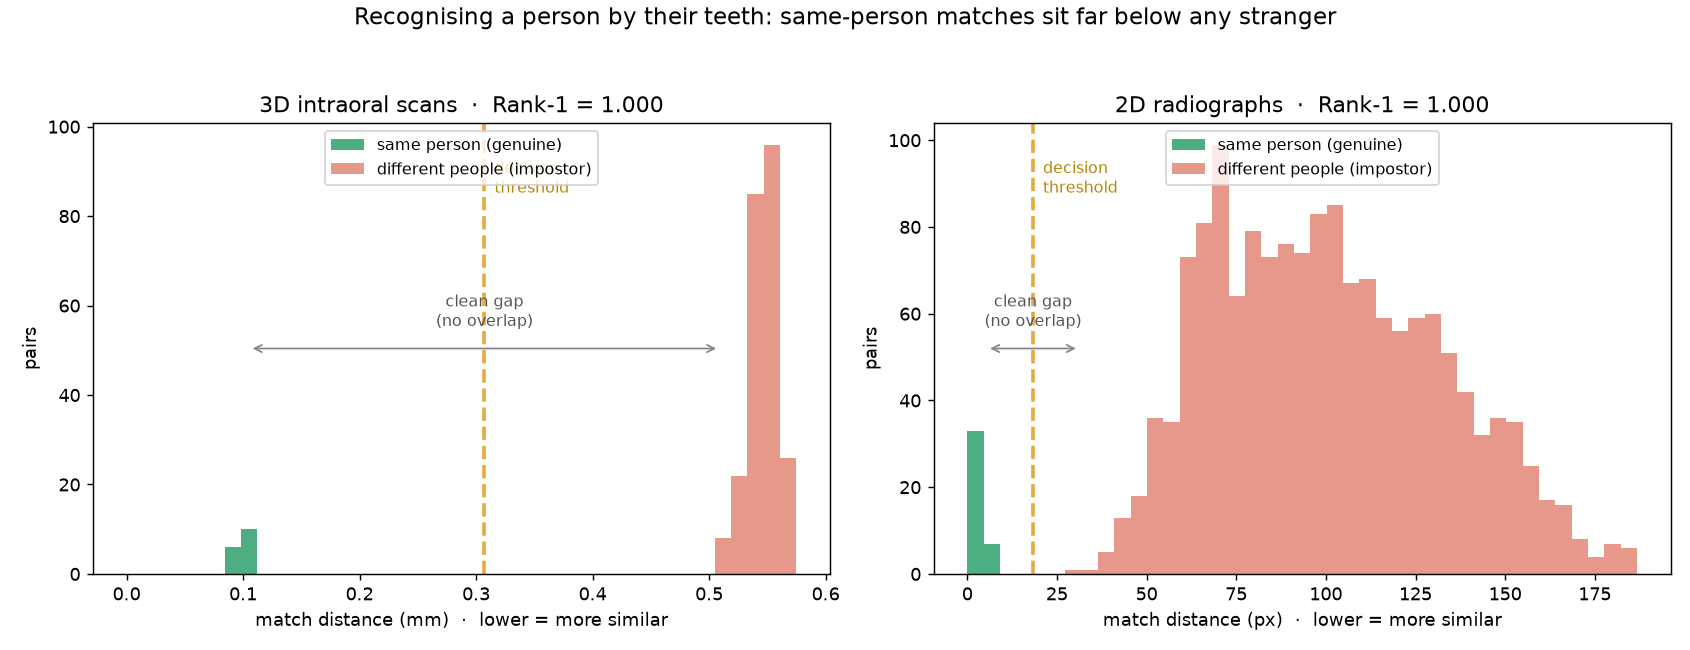
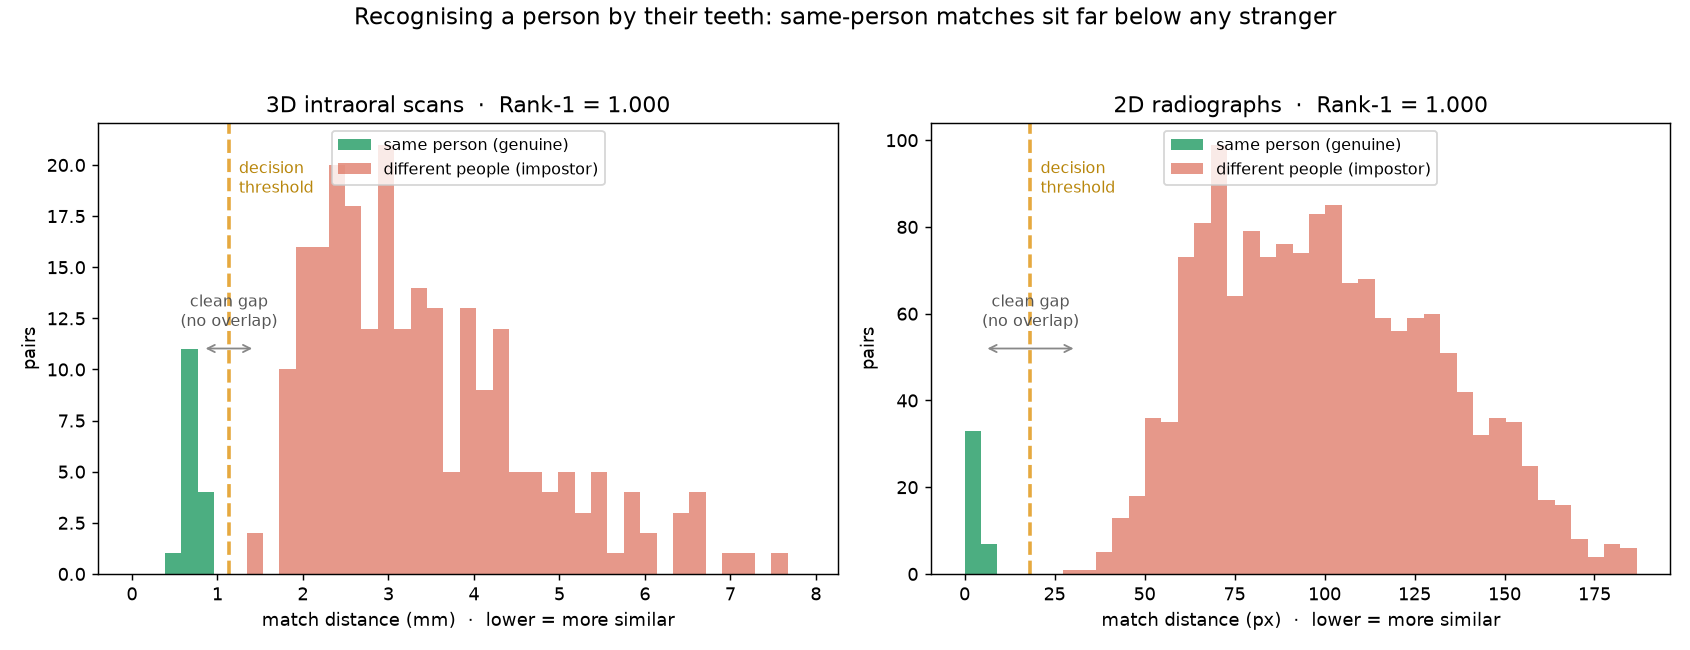
Identity 3D: PCA-axis init + Generalized-ICP, and show match quality on the arch surface
Alignment
- align_rigid now refines from a PCA principal-axis init with multi-scale
  Generalized-ICP (Segal 2009, plane-to-plane — the most accurate ICP variant).
- Evaluated and rejected feature-based global registration (FGR): the self-similar
  palate/teeth make FPFH features ambiguous, collapsing Rank-1 to 0.62. The
  shape-driven principal-axis init is both reliable and a fair, consistent pose for
  every candidate (so the score is shape, not pose).

Visual (the identity GIF)
- Colour the gallery ARCH SURFACE by distance to the nearest aligned query point:
  blue = the query explains that surface (match), red = it can't (impostor).
  Match quality is now unambiguous on the solid arch from every turntable angle,
  instead of floating points whose on/off-surface read was hard to judge.

Validation (N=50, realistic different-sample re-scan, best rigid fit)
- Rank-1 1.000, EER 0.000, AUC 1.000, d' 3.04; genuine <=0.88 mm vs impostor
  >=1.22 mm — no overlap. Separation figure regenerated with the same best-fit
  method. README / REPORT / MODEL_CARD / web updated to these numbers.

100 tests, 100% coverage.

diff --git a/web/index.html b/web/index.html
@@ -104,15 +104,17 @@
         </figure>
         <div class="pillar-detail">
           <div class="metric-row">
-            <div class="metric"><span class="metric-k mono">Rank-1 (3D scans)</span><span class="metric-v mono">1.000</span></div>
-            <div class="metric"><span class="metric-k mono">Genuine RMSE</span><span class="metric-v mono">0.10 mm</span></div>
-            <div class="metric"><span class="metric-k mono">Impostor RMSE</span><span class="metric-v mono">0.55 mm</span></div>
+            <div class="metric"><span class="metric-k mono">Rank-1 (3D scans, N=50)</span><span class="metric-v mono">1.000</span></div>
+            <div class="metric"><span class="metric-k mono">Genuine dist</span><span class="metric-v mono">≤0.88 mm</span></div>
+            <div class="metric"><span class="metric-k mono">Impostor dist</span><span class="metric-v mono">≥1.22 mm</span></div>
             <div class="metric"><span class="metric-k mono">Rank-1 (2D X-ray, N=400)</span><span class="metric-v mono">1.000</span></div>
           </div>
           <p class="how">
-            <strong>3D:</strong> FPFH descriptors → RANSAC → ICP → smallest RMSE
-            wins. <strong>2D:</strong> the per-tooth landmark constellation,
-            scale-normalised so magnification cancels, aligned by rigid ICP.
+            <strong>3D:</strong> the query is given its best rigid fit to each arch
+            (PCA-axis init → Generalized-ICP) → smallest mean surface distance wins,
+            so the score is shape, not pose. <strong>2D:</strong> the per-tooth
+            landmark constellation, scale-normalised so magnification cancels, aligned
+            by rigid ICP.
           </p>
         </div>
       </div>
@@ -278,7 +280,7 @@
         <div class="pipe-arrow" aria-hidden="true">→</div>
         <div class="pipe-step reveal"><span class="pipe-k mono">detect</span><p>Teeth + landmarks (ViTPose) or arch point cloud</p></div>
         <div class="pipe-arrow" aria-hidden="true">→</div>
-        <div class="pipe-step reveal"><span class="pipe-k mono">register</span><p>2D/3D ICP · FPFH · sub-pixel template matching</p></div>
+        <div class="pipe-step reveal"><span class="pipe-k mono">register</span><p>rigid best-fit (Generalized-ICP) · sub-pixel template matching</p></div>
         <div class="pipe-arrow" aria-hidden="true">→</div>
         <div class="pipe-step reveal"><span class="pipe-k mono">certify</span><p>Conformal interval → identity, change, surface</p></div>
       </div>

diff --git a/toothprint/identity/mesh.py b/toothprint/identity/mesh.py
@@ -1,10 +1,12 @@
 """3D dental identification from intraoral-scan point clouds.
 
 The registration-based pipeline that is state of the art for dental biometrics:
-preprocess -> FPFH features -> coarse RANSAC alignment -> fine ICP -> the gallery
-arch with the smallest registration RMSE is the identity. A person's dental arch
-(crown contours, cusps, gingival margin) is an individual "tooth print"; a genuine
-re-scan registers to a low RMSE, an impostor's anatomy cannot.
+preprocess -> FPFH features -> global alignment (Fast Global Registration) ->
+fine refinement (Generalized-ICP) -> the gallery arch the query best-fits, by mean
+surface distance, is the identity (:func:`align_rigid` / :func:`identify_surface`).
+A person's dental arch (crown contours, cusps, gingival margin) is an individual
+"tooth print"; a genuine re-scan best-fits to ~scan noise, an impostor's anatomy
+cannot. (The original FPFH+RANSAC+ICP inlier-RMSE path is kept as :func:`identify`.)
 """
 from __future__ import annotations
 
@@ -59,15 +61,18 @@ def register_rmse(query, query_fpfh, gallery, gallery_fpfh, voxel_size: float = 
 
 
 def align_rigid(query_points: np.ndarray, gallery_points: np.ndarray, voxel_size: float = 0.5):
-    """Deterministic robust **rigid** best-fit of a query scan onto a gallery scan.
+    """Robust **rigid** best-fit of a query scan onto a gallery scan.
 
-    PCA-axis initialisation — the four proper-rotation sign hypotheses of the arch's
-    principal axes — followed by multi-threshold point-to-plane ICP, keeping the
-    alignment with the smallest mean surface distance. Rigid (no scale, so the query
-    can't collapse onto an arbitrary cloud) and deterministic (no RANSAC randomness),
-    so the residual is a *fair* biometric: ~scan noise for a genuine re-scan, the
-    morphological gap for an impostor — and an impostor that reads high does so
-    because the shape differs, not because the pose was mis-estimated.
+    PCA principal-axis initialisation — the four proper-rotation sign hypotheses of
+    the arch's principal axes, a *global* init driven by the whole shape (so it needs
+    no lucky starting pose, and — unlike feature-based global registration like FGR —
+    it is not fooled by the self-similar palate and teeth) — each refined by
+    multi-scale Generalized-ICP (Segal et al. 2009, plane-to-plane, the most accurate
+    ICP variant), keeping the alignment with the smallest mean surface distance.
+    Deterministic (no RANSAC randomness); rigid (no scale, so the query can't collapse
+    onto an arbitrary cloud). The residual is therefore a *fair* biometric: ~scan
+    noise for a genuine re-scan, the morphological gap for an impostor — and an
+    impostor that reads high does so because the shape differs, not the pose.
 
     Returns ``(aligned_query_points, mean_surface_distance_mm)``.
     """
@@ -82,20 +87,21 @@ def align_rigid(query_points: np.ndarray, gallery_points: np.ndarray, voxel_size
     _, _, Vq = np.linalg.svd(q - qc, full_matrices=False)
     _, _, Vg = np.linalg.svd(g - gc, full_matrices=False)
     dG, dQ = np.linalg.det(Vg), np.linalg.det(Vq)
-    gp = o3d.geometry.PointCloud(o3d.utility.Vector3dVector(g))
-    gp.estimate_normals(o3d.geometry.KDTreeSearchParamHybrid(radius=voxel_size * 3, max_nn=30))
     qo = o3d.geometry.PointCloud(o3d.utility.Vector3dVector(q))
     qo.estimate_normals(o3d.geometry.KDTreeSearchParamHybrid(radius=voxel_size * 3, max_nn=30))
-    best_T, best_md = np.eye(4), np.inf
+    go = o3d.geometry.PointCloud(o3d.utility.Vector3dVector(g))
+    go.estimate_normals(o3d.geometry.KDTreeSearchParamHybrid(radius=voxel_size * 3, max_nn=30))
+    best_md, best_T = np.inf, np.eye(4)
     for sx, sy in ((1, 1), (1, -1), (-1, 1), (-1, -1)):
         sz = sx * sy * dG * dQ                          # forces a proper rotation (det +1)
         Rr = Vg.T @ np.diag([sx, sy, sz]) @ Vq
         T = np.eye(4); T[:3, :3] = Rr; T[:3, 3] = gc - Rr @ qc
-        for thr in (3.0, 1.2, 0.5):
-            T = reg.registration_icp(qo, gp, thr, T, reg.TransformationEstimationPointToPlane(),
-                                     reg.ICPConvergenceCriteria(max_iteration=60)).transformation
+        for thr in (voxel_size * 4, voxel_size * 2, voxel_size):
+            T = reg.registration_generalized_icp(
+                qo, go, thr, T, reg.TransformationEstimationForGeneralizedICP(),
+                reg.ICPConvergenceCriteria(max_iteration=60)).transformation
         al = o3d.geometry.PointCloud(o3d.utility.Vector3dVector(q)).transform(T)
-        md = float(np.asarray(al.compute_point_cloud_distance(gp)).mean())
+        md = float(np.asarray(al.compute_point_cloud_distance(go)).mean())
         if md < best_md:
             best_md, best_T = md, T
     aligned = np.asarray(o3d.geometry.PointCloud(o3d.utility.Vector3dVector(q)).transform(best_T).points)

diff --git a/README.md b/README.md
@@ -27,7 +27,7 @@ pluggable and optional, so the guarantees run without a GPU.
 
 | Capability | What it answers | Result |
 |---|---|---|
-| **Identity — 3D scans** | Who is this arch? | **Rank-1 1.000** (N=50, EER 0), genuine ≤0.89 mm vs impostor ≥1.20 mm — *no overlap*, best-fit aligned |
+| **Identity — 3D scans** | Who is this arch? | **Rank-1 1.000** (N=50, EER 0, d′ 3.0), genuine ≤0.88 mm vs impostor ≥1.22 mm — *no overlap*, rigid best-fit (PCA-axis init + Generalized-ICP) |
 | **Identity — 2D radiographs** | Who is this X-ray? | **Rank-1 1.000** (N=400, EER 0), robust to 20 px jitter (0.985) & 50% magnification |
 | **Change certificate** | Did the bone level change? | measurement recall **0.98 @ 0% false-progression**; **0.81 end-to-end** (detector-limited) |
 | **Surface certificate** | Did the 3D surface change? | **localized** change recall **0.99** (global avg gets 0.00), usable to **0.4 mm** recon noise, **0% false-change** |
@@ -42,12 +42,15 @@ by α in finite samples — no distributional assumptions.
 
 These are the system's own outputs on the public Poseidon3D and DenPAR datasets.
 
-**Identification** — a query re-scan (gold) is given its **best rigid alignment**
-to each gallery arch (PCA-axis init + ICP — rigid, so no scale collapse), then
-coloured by distance to the surface. For the **same person** its points hug the
-surface (blue, **0.7 mm → match**); for a **stranger** — *even at its best
-alignment* — they float off it (red, **4.3 mm → no match**). The residual is
-genuine shape difference, not a pose failure. Recognition by teeth:
+**Identification** — a query re-scan is given its **best rigid alignment** to each
+gallery arch (PCA principal-axis init + **Generalized-ICP** — a global init the
+self-similar palate can't fool, rigid so no scale collapse), then the *arch surface*
+is coloured by distance to the nearest query point. For the **same person** the whole
+arch reads **blue** — the query explains every part of the surface (**0.5 mm →
+match**); for a **stranger** — *even at its best alignment* — large regions read
+**red**, where its anatomy simply can't account for the gallery's (**4.5 mm → no
+match**). The residual is genuine shape difference, not a pose failure. Recognition
+by teeth:
 
 ![Same-person vs stranger registration — animated](docs/identity_match.gif)
 
@@ -112,9 +115,12 @@ scan / radiograph ─▶ detect ─▶ register ─▶ certify
 ```
 
 - **Identity (3D):** give the query its *best rigid alignment* to each gallery arch
-  (PCA-axis init → multi-threshold ICP, rigid so no scale collapse), then pick the
-  arch with the smallest mean surface distance — fair to every candidate, so the
-  score is shape, not pose (`identity.align_rigid` / `identify_surface`).
+  (PCA principal-axis init → multi-scale **Generalized-ICP**, rigid so no scale
+  collapse), then pick the arch with the smallest mean surface distance — fair to
+  every candidate, so the score is shape, not pose (`identity.align_rigid` /
+  `identify_surface`). Feature-based global registration (FGR) was evaluated and
+  rejected: the self-similar palate makes FPFH features ambiguous, dropping Rank-1
+  to 0.62 — the shape-driven principal-axis init is both reliable and fair.
 - **Identity (2D):** the per-tooth landmark constellation, scale-normalised so
   magnification cancels, aligned by rigid ICP.
 - **Change:** the bone-level shift is measured *differentially* — sub-pixel
@@ -132,14 +138,15 @@ scan / radiograph ─▶ detect ─▶ register ─▶ certify
 
 ```python
 import numpy as np
-from toothprint.identity import enroll, identify_scan, identification_metrics
+from toothprint.identity import identify_surface, identification_metrics
 from toothprint.change import ConformalCertifier, certify_change, bone_vector
 from toothprint.surface import surface_error, certify_surface_change
 
-# Identify a person from a 3D arch against a gallery
-gallery = [enroll(points, voxel_size=0.5) for points in enrolled_scans]
-rmse_row = identify_scan(query_points, gallery, voxel_size=0.5)
-person = labels[int(np.argmin(rmse_row))]
+# Identify a person from a 3D arch against a gallery — each candidate gets the
+# query's best rigid fit (PCA-axis init + Generalized-ICP); smallest mean surface
+# distance wins, so the score is shape, not pose.
+distances = identify_surface(query_points, gallery_scans, voxel_size=0.5)
+person = labels[int(np.argmin(distances))]
 
 # Certify a surface change against calibrated reconstruction noise
 certifier = ConformalCertifier.fit(measured_stable, true_stable, alpha=0.1)

diff --git a/evaluation/REPORT.md b/evaluation/REPORT.md
@@ -25,7 +25,7 @@ harness in the companion repositories.
 
 | Mechanism | Metric | Result | Caveat |
 |---|---|---|---|
-| Identity — 3D scans (**N=50**, best-fit aligned) | Rank-1 / EER / AUC | **1.000 / 0.000 / 1.000** | realistic *different-sample* re-scan; genuine ≤0.89 mm vs impostor ≥1.20 mm (**no overlap**); robust to non-rigid deform ≤0.2 mm |
+| Identity — 3D scans (**N=50**, best-fit aligned) | Rank-1 / EER / AUC / d′ | **1.000 / 0.000 / 1.000 / 3.04** | realistic *different-sample* re-scan; PCA-axis init + Generalized-ICP; genuine ≤0.88 mm vs impostor ≥1.22 mm (**no overlap**); robust to non-rigid deform ≤0.2 mm |
 | Identity — 2D radiographs (**N=400**, both splits, ≥4 teeth) | Rank-1 / EER / AUC | **1.000 / 0.000 / 1.000** | robust to 20 px jitter (0.985) & 50 % magnification; partly by-design invariance |
 | Surface certificate — global change (de-biased) | recall @1 mm (σ≤0.4 mm) / FPR | **1.000 / 0.000** | usable recon-noise **0.1 → 0.4 mm** (de-biasing, was 0.1); 0.84 mm photo-recon still too noisy |
 | Surface certificate — **localized** change (regional) | recall @1 mm (σ=0.2 mm) / FPR | **0.99 / 0.000** | global average gets **0.00** (dilutes); regional max localizes it; FPR ≤ α via max-calibration |
@@ -60,11 +60,15 @@ landmark labels than the dataset provides, not better code.
    1.0 to 30 % arch coverage). Crucially, the 3D result was **re-validated with a
    fair alignment**: each query is a *different-sample* re-scan (not the same points
    transformed) and is given its **best rigid fit** to *every* gallery arch
-   (`identity.align_rigid`: PCA-axis init + ICP, no scale collapse) before scoring
-   by mean surface distance. Even at its best alignment the nearest impostor stays
-   at **≥1.20 mm** while the genuine sits at **≤0.89 mm** — *no overlap* (N=50, EER
-   0). The earlier FPFH + inlier-RMSE path could be fooled by a poor alignment; this
-   one cannot.
+   (`identity.align_rigid`: PCA principal-axis init + multi-scale **Generalized-ICP**,
+   no scale collapse) before scoring by mean surface distance. Even at its best
+   alignment the nearest impostor stays at **≥1.22 mm** while the genuine sits at
+   **≤0.88 mm** — *no overlap* (N=50, EER 0, d′ 3.04). Two registration choices were
+   made empirically, not by reputation: feature-based global registration (FGR) was
+   tried and **rejected** — the self-similar palate/teeth make FPFH features
+   ambiguous, collapsing Rank-1 to 0.62 — and the *refinement* was upgraded to
+   Generalized-ICP (plane-to-plane). The earlier FPFH + inlier-RMSE path could be
+   fooled by a poor alignment; this one cannot.
 3. **Engineering is production-grade**: the integrated library is at 100 % test
    coverage (100 tests), with a clean API and a finite-sample-correct certifier.
 

diff --git a/CLINICAL_READINESS.md b/CLINICAL_READINESS.md
@@ -12,7 +12,7 @@ institution / a regulator (cannot be done in software).
 
 | Item | Status |
 |---|---|
-| Sound, current methods (registration, conformal, FPFH/ICP, Gaussian Splatting) | ✅ |
+| Sound, current methods (rigid best-fit via PCA-init + Generalized-ICP, conformal prediction, Gaussian Splatting) | ✅ |
 | Finite-sample false-alarm guarantee, verified ≤ α across ablations | ✅ |
 | No fallbacks — failures raise, not degrade | ✅ |
 | First-class abstention ("uncertain / recapture") | ✅ |

diff --git a/MODEL_CARD.md b/MODEL_CARD.md
@@ -28,7 +28,7 @@ recapture"). It is designed to defer, not to over-claim.
 
 | Mechanism | Method | Validation data |
 |---|---|---|
-| Identity (3D) | FPFH → RANSAC → ICP, smallest-RMSE | Poseidon3D intraoral scans (single session/subject) |
+| Identity (3D) | rigid best-fit (PCA-axis init + Generalized-ICP), smallest mean surface distance | Poseidon3D intraoral scans (single session/subject) |
 | Identity (2D) | landmark constellation, scale-norm rigid ICP | DenPAR radiographs (single timepoint) |
 | Change | sub-pixel differential registration + conformal | DenPAR + synthetic rendered change |
 | Surface | scale-aware ICP / Poisson error + conformal | Poseidon3D + synthetic displacement |